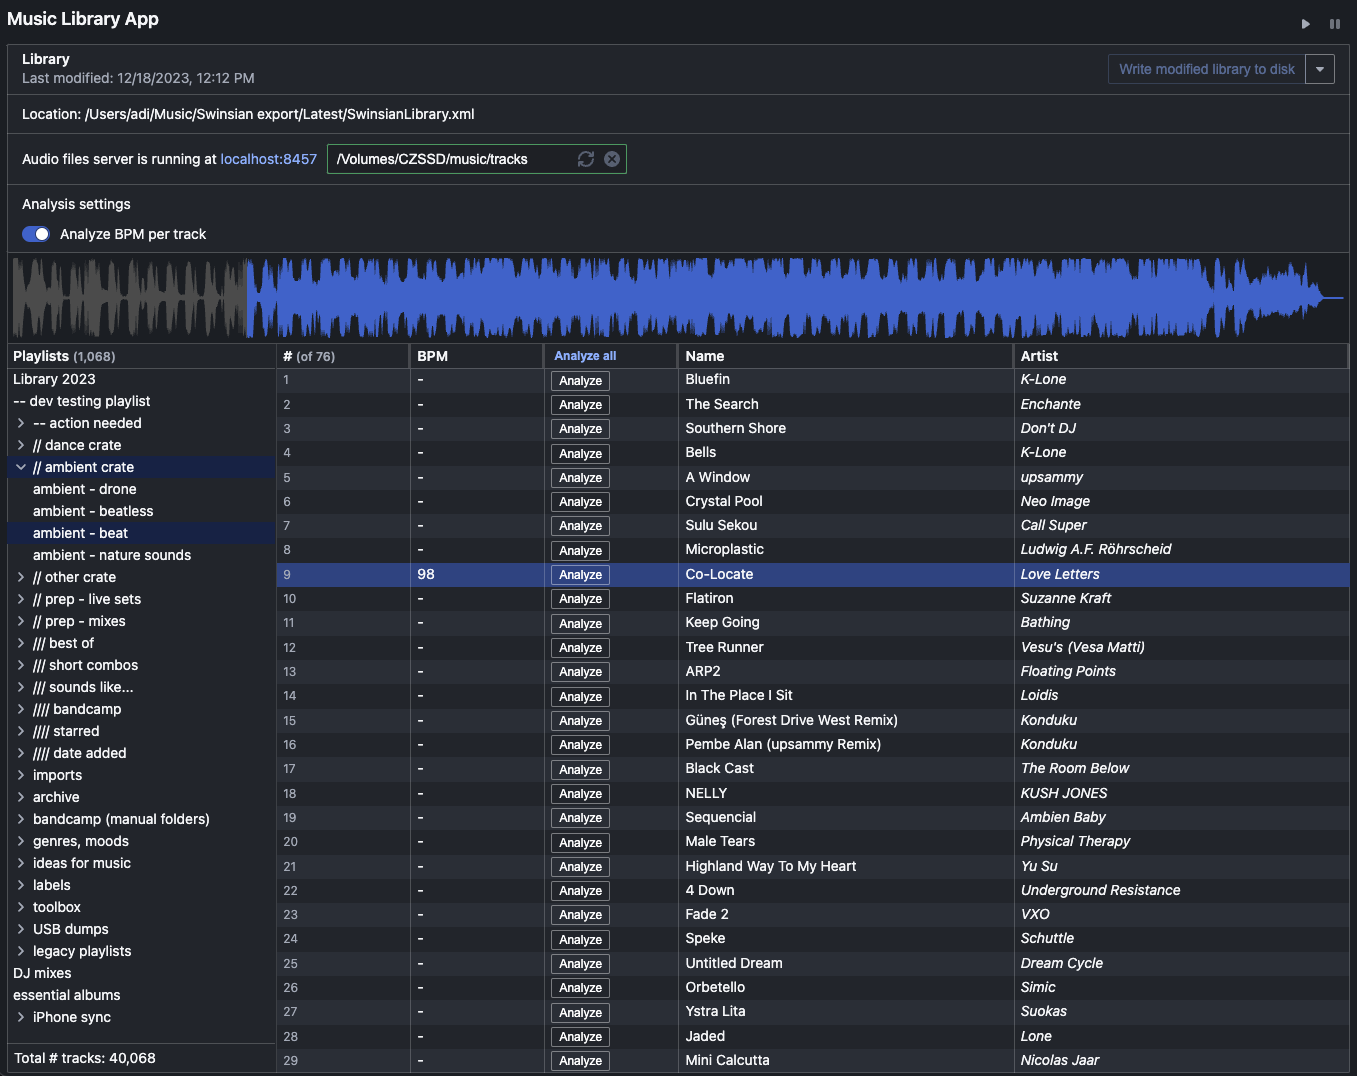
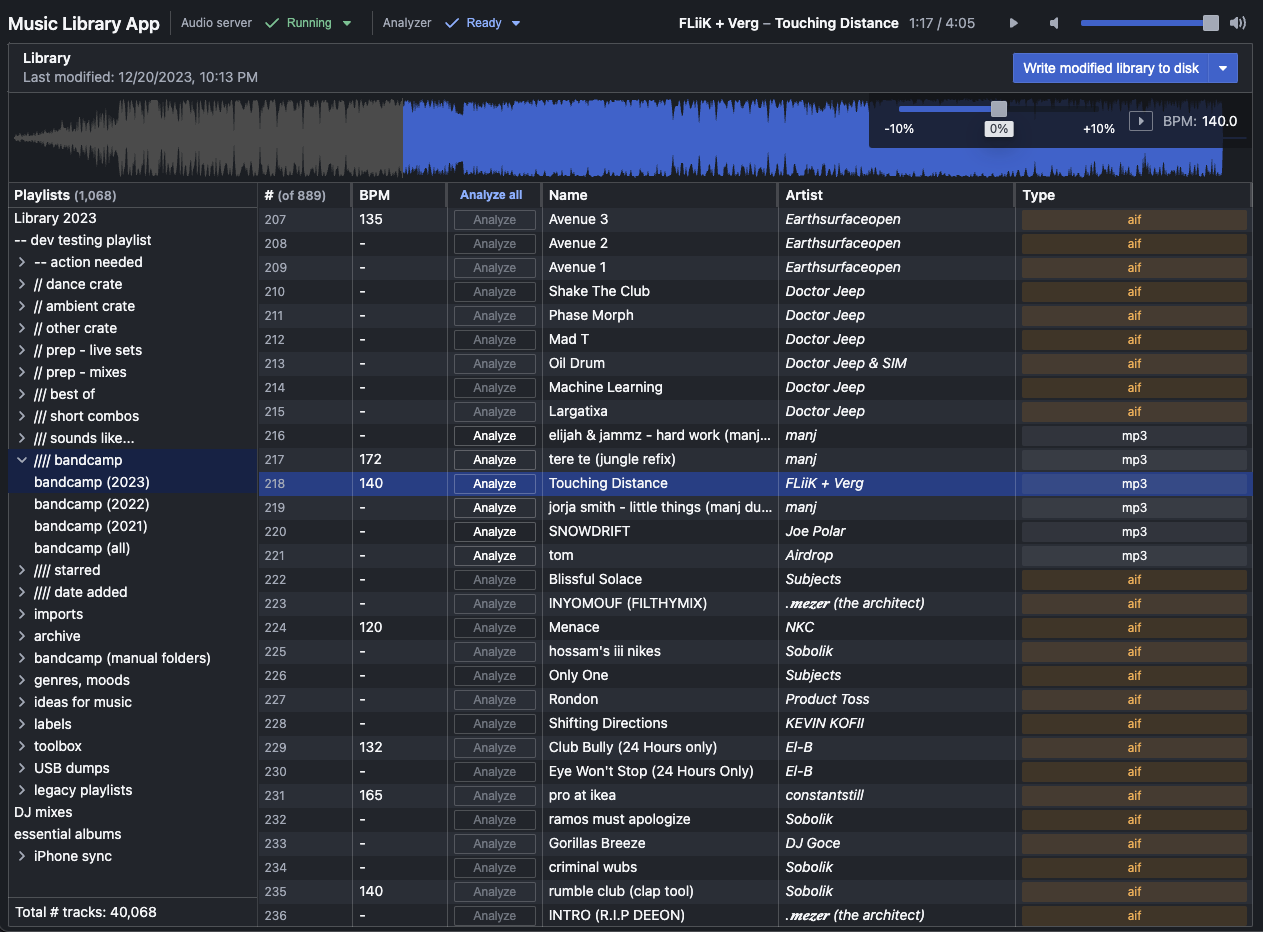
[app] docs & cleanup for AIFF support feature

diff --git a/packages/music-library-app/src/server/handlers/convertToMP3Handler.ts b/packages/music-library-app/src/server/handlers/convertToMP3Handler.ts
@@ -6,9 +6,9 @@ import { sync as commandExistsSync } from "command-exists";
 import ffmpeg from "fluent-ffmpeg";
 import { json, ReqWithBody as RequestWithBody } from "milliparsec";
 
-import { ServerErrors } from "../common/errorMessages";
-import { AudioFilesConverter, AudioFilesConverterTrackDefinition } from "./audioFilesConverter";
-import { log } from "./serverLogger";
+import { ServerErrors } from "../../common/errorMessages";
+import { AudioFilesConverter, AudioFilesConverterTrackDefinition } from "../audioFilesConverter";
+import { log } from "../serverLogger";
 
 export function getConvertToMP3RequestHandler(converter: AudioFilesConverter): Handler {
   return async (

diff --git a/packages/music-library-app/src/server/audioFilesServer.ts b/packages/music-library-app/src/server/audioFilesServer.ts
@@ -8,8 +8,8 @@ import sirv from "sirv";
 import { AudioFilesServerRoutes as ServerRoutes } from "../common/audioFilesServerRoutes";
 import { DEFAULT_AUDIO_FILES_SERVER_PORT } from "../common/constants";
 import { ServerErrors } from "../common/errorMessages";
-import { getConvertToMP3RequestHandler } from "./audioFileConverterMiddleware";
 import { AudioFilesConverter } from "./audioFilesConverter";
+import { getConvertToMP3RequestHandler } from "./handlers/convertToMP3Handler";
 import { log } from "./serverLogger";
 
 let audioFilesServer: AudioFilesServer | undefined;

diff --git a/packages/music-library-app/README.md b/packages/music-library-app/README.md
@@ -6,7 +6,9 @@ Installation: download latest app binary for your OS platform from the [Releases
 
 ### Getting started
 
-> Coming soon
+Requirements:
+
+- `ffmpeg` must be installed and available on the system path. See installation docs for [macOS](https://github.com/fluent-ffmpeg/node-fluent-ffmpeg/wiki/Installing-ffmpeg-on-Mac-OS-X) and [Debian](https://github.com/fluent-ffmpeg/node-fluent-ffmpeg/wiki/Installing-ffmpeg-on-Debian).
 
 ### Screenshot
 
